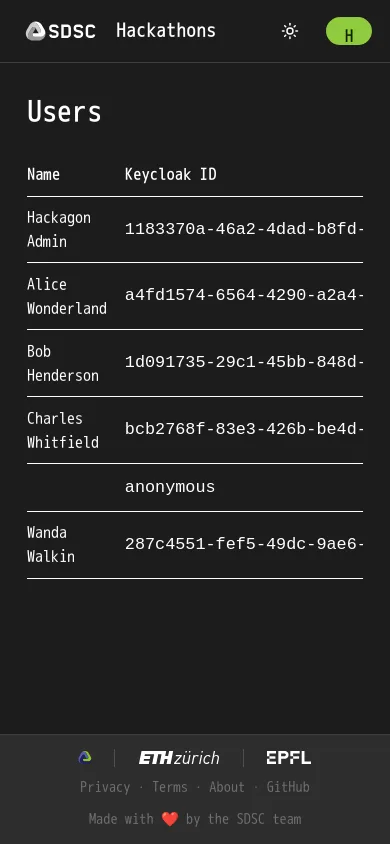
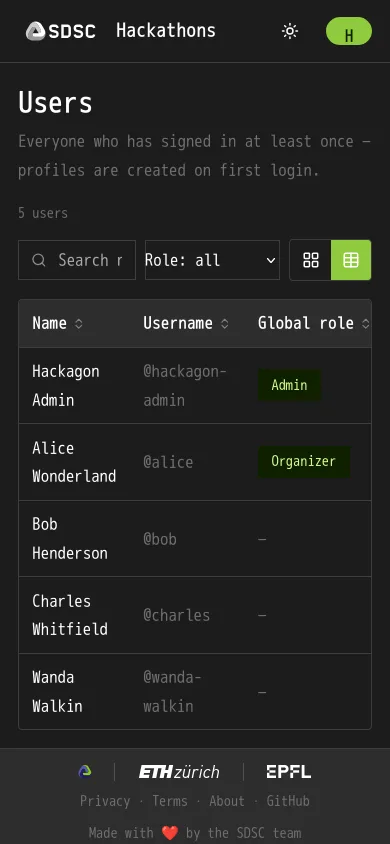
docs: refresh the flow screenshots for the new list toolbar
The admin lists now show the search box, role filter and view toggle, and the
user table renders global roles — which it could not before UserService.List
returned them.

The "anonymous" profile that used to sit between Hackagon Admin and Bob
Henderson is gone from these shots: it was the unauthenticated subject
registered as a person, now refused.

diff --git a/docs/user-flows.md b/docs/user-flows.md
@@ -194,6 +194,12 @@ slug, and draft pages return "not found" to everyone else so their existence
 stays private until published. A published slug is reachable immediately,
 without a code change per page.
 
+Every management list shares one toolbar: a quick search, dropdown filters, and
+a cards/table toggle whose choice is remembered per list. Here the search covers
+the page **content** as well as the title — "where did I write that paragraph"
+is the question these pages actually get asked. The table view puts Edit, View
+and Delete behind a per-row menu so a row stays one line.
+
 | Desktop | Phone |
 | --- | --- |
 | <img src="flows/admin-1-pages-desktop.webp" alt="Platform pages CMS on desktop" width="720"> | <img src="flows/admin-1-pages-phone.webp" alt="Platform pages CMS on a phone" width="220"> |
@@ -201,7 +207,10 @@ without a code change per page.
 ### 5.2 Users
 
 Everyone who has ever signed in. Profiles are created on first login, so this
-list grows by itself.
+list grows by itself — which is why it is searchable across name, handle, email
+and Keycloak ID, and filterable by global role. There are deliberately no
+per-row actions: granting and revoking global roles are proto-only stubs today,
+and a button that cannot work is worse than none.
 
 | Desktop | Phone |
 | --- | --- |
